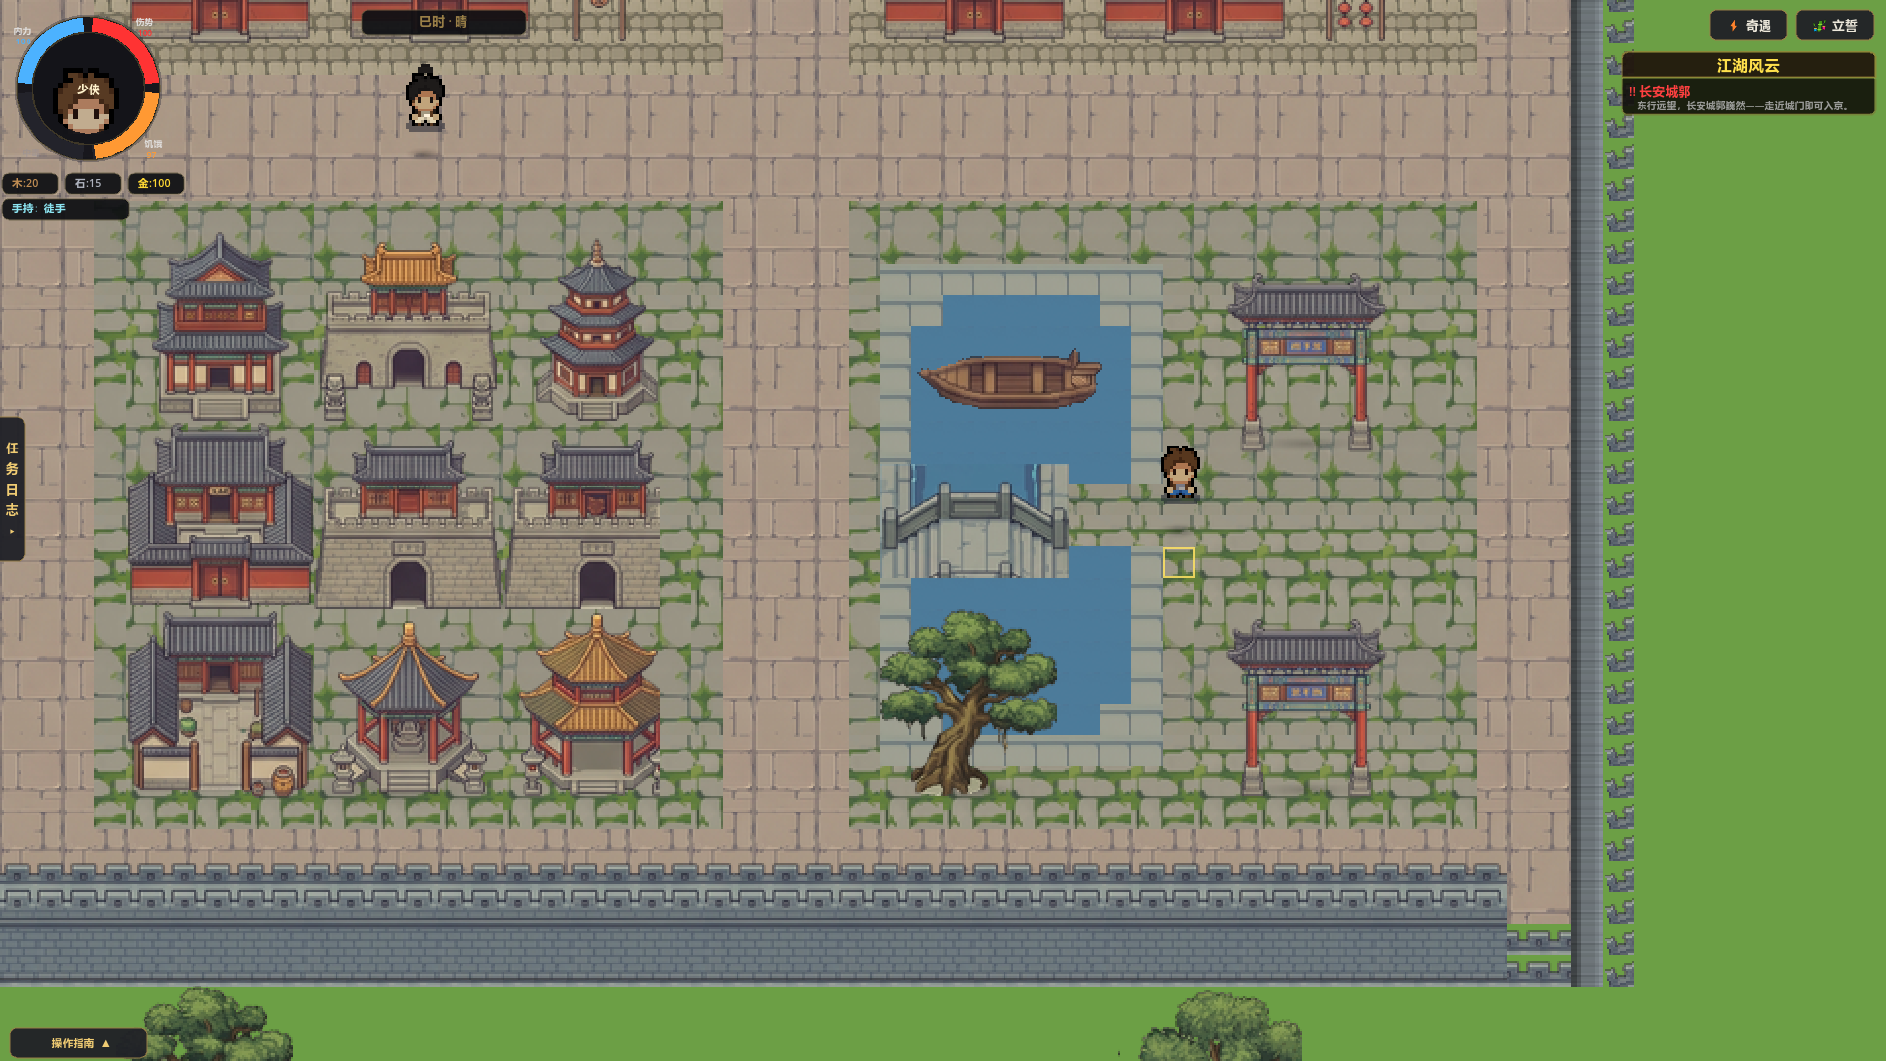
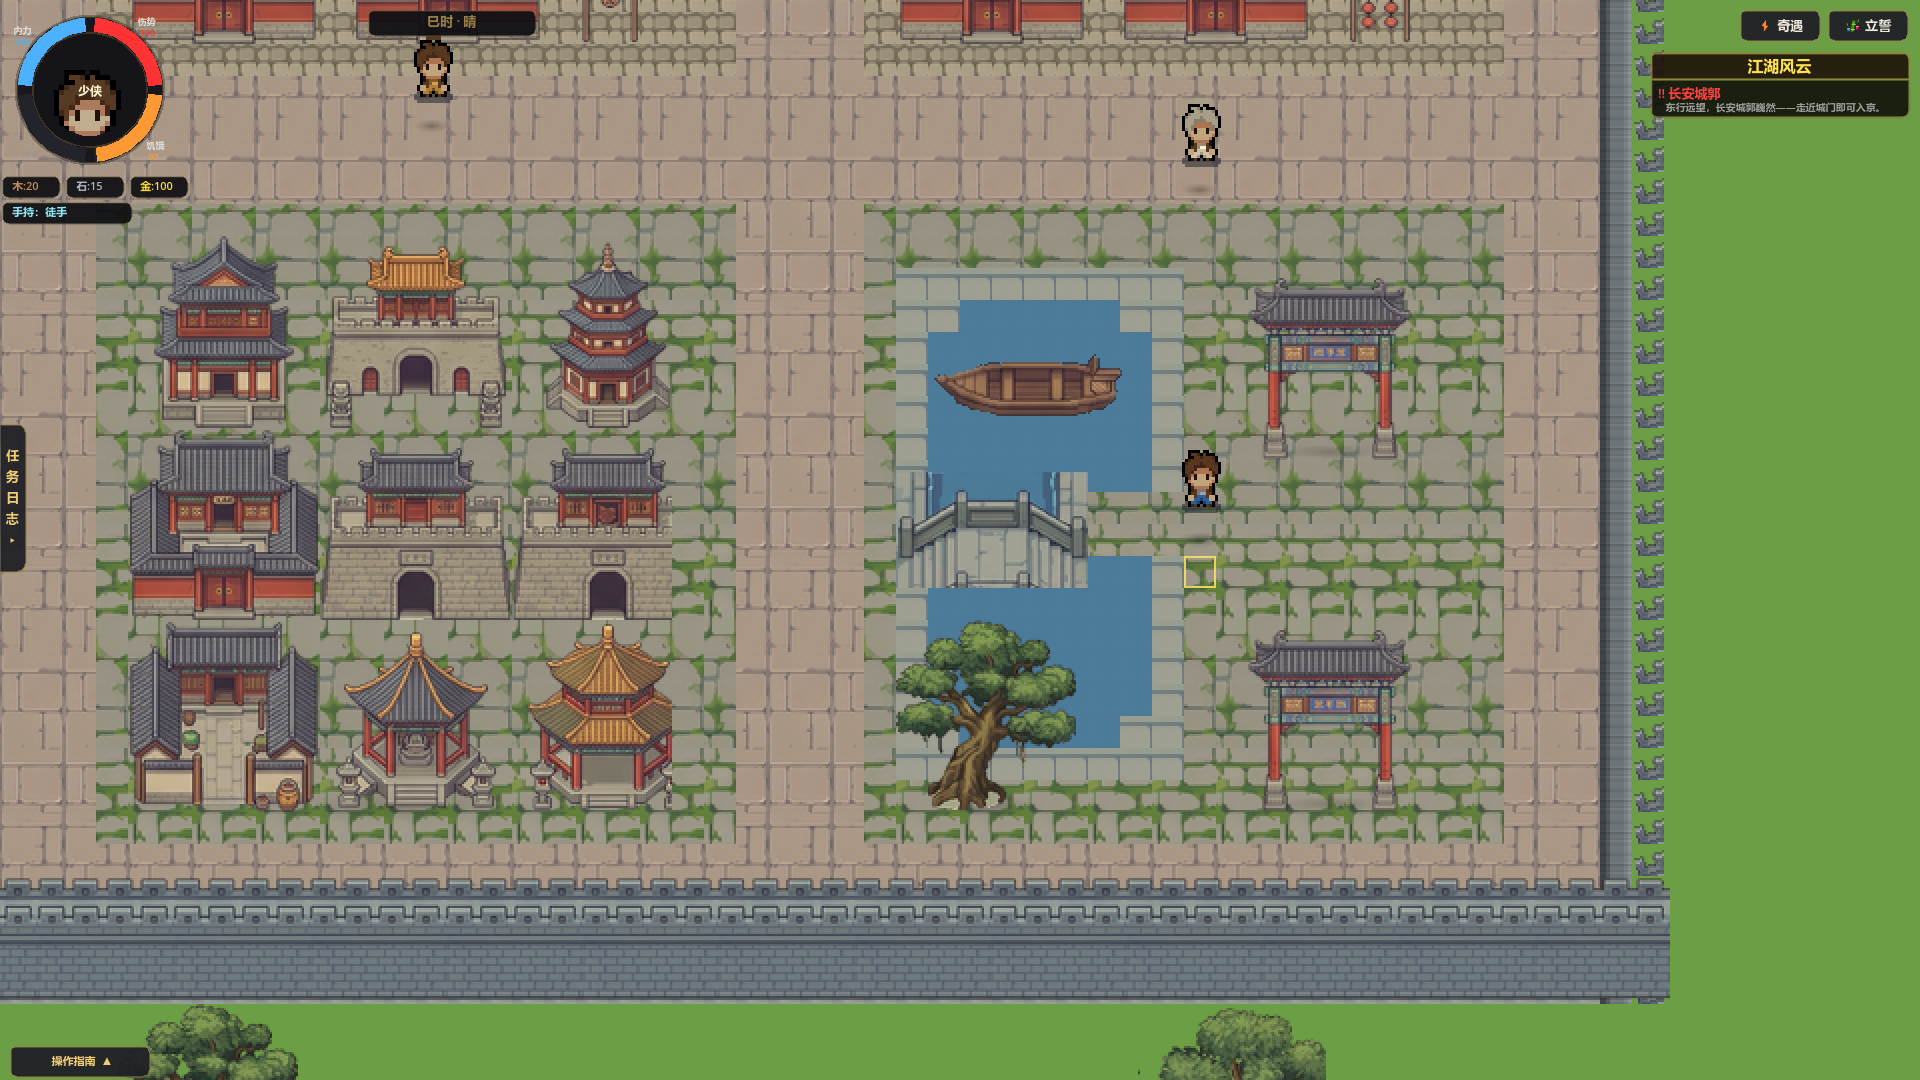
feat: strengthen Changan gate joins and city depth
Replace black gate-hole tiles and rotated side gates, align wall runs to gate widths, deepen palace, market, and residential compositions, and increase city population with matching probes and screenshots.

diff --git a/AI_COLLABORATION.md b/AI_COLLABORATION.md
@@ -343,3 +343,14 @@
 - 另一条线需要知道：REQ-20260910-01 复查口径已写入请求；请先修正桥接 setter 的绝对赋值语义、轮盘配置加载/十连价格/Lv3 功能门槛，再申请接线。
 - 下一步：真实移动序列验证贴墙滑动/门洞净宽，再按街区轮廓收敛宫城、官署、民居与曲江的重复模板。
 - Git commit：`3412587`。
+
+### 2026-09-10 21:15｜视觉世界线｜长安四门专项与层次密度第二轮
+
+- 状态：部分完成；用户本轮指出的黑色门洞、南北门墙断缝和旋转东西假门已修复，整城最终美术验收仍继续。
+- 改动文件：`scripts/changan_v2_generator.gd`、`scripts/changan_v2_materials.gd`、三份 v2 探针、十一张长安样张（含新增开远/春明门）。
+- 完成内容：门洞改真空装饰格；南北门楼按素材实宽与 `wall_run` 零缝同底线；东西门改开放关口+守望楼/门灯/石兽组合；宫城三进组团、两市连续宽窄店排+六摊、民居后院/高楼/巷排轮换；人口 24→40。
+- 稳定接口变化：无破坏性变更；四门 side、`gate_info`、`changan_city_gate` 四节点组、Portals 和冻结街网均保持。
+- 验证命令与结果：结构探针 PASS；主场景 E2E 全 PASS；`python tools/regress_world.py` 94/94 PASS；窗口样张 10/10 PASS；BFS=0、271 材质件、120 阴影、91 建筑/树碰撞、40 NPC。
+- 另一条线需要知道：没有修改玩法文件或共享热点；人口统计契约由 24 更新为 40，NPC 仍为既有 idle 日程，未改行为逻辑。
+- 下一步：继续降低规则网格机械感，补皇城连续衙署、曲江折线岸景，并等待/制作东西侧墙专属素材后做外郭终验。
+- Git commit：本条随当前提交落库。
